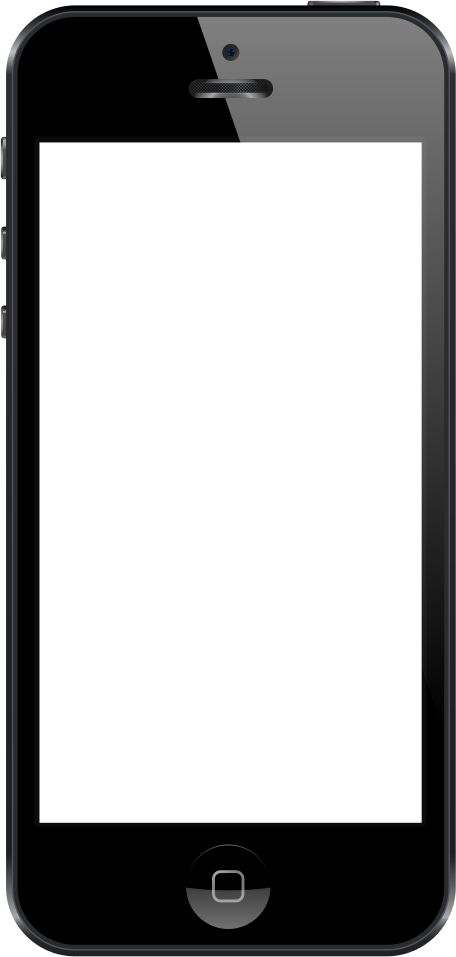
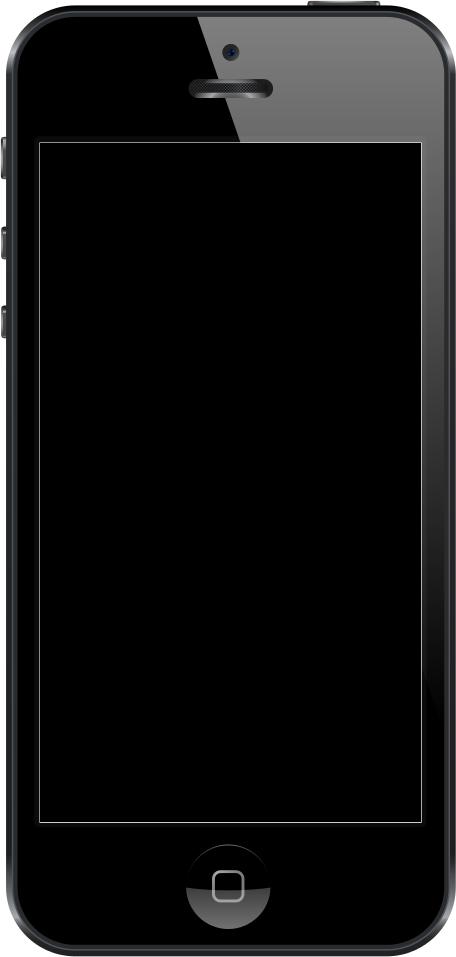
Improve device scaling and device images for iPhone 3 and 4
Can now scale given a diagonal screen size of a target device, making
it easier to add new devices.

diff --git a/Assets/Plugins/GDX Mobile View/GDXMobileView.cs b/Assets/Plugins/GDX Mobile View/GDXMobileView.cs
@@ -5,9 +5,12 @@ using System.Collections;
 using System.Collections.Generic;
 
 public class GDXMobileView: EditorWindow {
-	public static Dictionary<string, Vector2> deviceSize = new Dictionary<string, Vector2>();
+	public static string DEVICE_IMAGES_PATH = "Assets/Plugins/GDX Mobile View/Devices/";
+	public static Vector2 UNITY_GAMEVIEW_BORDER = new Vector2(4, 18);
+	
+	public static MobileDevice[] devices;
 	public static string[] deviceNames;
-	public static Vector2[] deviceSizeArray;
+
 	public static string[] orientations = {"Horizontal", "Vertical"};
 	
 	private Vector2 deviceCenter = new Vector2(200,150);
@@ -15,36 +18,31 @@ public class GDXMobileView: EditorWindow {
 	private int selectedDeviceIndex = 0;
 	private int selectedOrientationIndex = 0;
 	private bool isActualSize = true;
+	private bool isCompensatingForBorders = true;
 	private static float dpi = 110.0f;
 	
 	private static float screenSize;
 	private static float oldScreenSize;
 	
-	public static Texture2D deviceImage;
-
     float scaledDeviceWidth;
 	float scaledDeviceHeight;
 	bool isSizeSet = false;
    
-	[MenuItem ("Window/Emulate Device Size...")]
+	[MenuItem ("Window/GDX Mobile View")]
 	static void Init () {
        GDXMobileView window = (GDXMobileView)(EditorWindow.GetWindow(typeof(GDXMobileView)));
+		List<MobileDevice> deviceList = new List<MobileDevice>();
+		deviceList.Add(new MobileDevice("iPhone 3", new Vector2(320,480), 3.5f, 2.44f));
+		deviceList.Add(new MobileDevice("iPhone 4", new Vector2(640,960), 3.5f, 2.31f));
+		deviceList.Add(new MobileDevice("iPhone 5", new Vector2(640,1136),4, 2.31f));
+
+		devices = new MobileDevice[deviceList.Count];
+		deviceList.CopyTo(devices, 0);
 		
-		deviceSize.Add("iPhone 3(GS)", new Vector2(320,480));
-		deviceSize.Add("iPhone 4(S)", new Vector2(640,960));
-		deviceSize.Add("iPhone 5(CS)", new Vector2(640,1136));
-		deviceSize.Add("iPad Mini (1st Gen)", new Vector2(768,1024));
-		deviceSize.Add("iPad Mini (2nd Gen)", new Vector2(1536,2048));
-		deviceSize.Add("iPad Mini (1st/2nd Gen)", new Vector2(768,1024));
-		deviceSize.Add("iPad Mini (3rd/4th Gen)", new Vector2(1536,2048));
-		
-		deviceSizeArray = new Vector2[deviceSize.Values.Count];
-		deviceSize.Values.CopyTo(deviceSizeArray, 0);
-		
-		deviceNames = new string[deviceSize.Keys.Count];
-		deviceSize.Keys.CopyTo(deviceNames, 0);
-		
-		deviceImage = (Texture2D) Resources.LoadAssetAtPath("Assets/Plugins/GDX Mobile View/Devices/iPhone 5.png", typeof(Texture2D));
+		deviceNames = new string[devices.Length];
+		for(int i=0; i<devices.Length; i++) {
+			deviceNames[i] = devices[i].name;
+		}
 	}
  
     public static EditorWindow GetMainGameView() {
@@ -55,10 +53,6 @@ public class GDXMobileView: EditorWindow {
     }
  
     void OnGUI () {
-	     if(deviceNames == null) {
-			return;
-		}
-	
 	  EditorGUILayout.HelpBox("DPI measured as "+dpi+" dots per inch ", MessageType.Info);
 	  screenSize = EditorGUILayout.FloatField("Screen Diagonal Size: ", screenSize);
 	   if(screenSize != oldScreenSize) {
@@ -69,13 +63,14 @@ public class GDXMobileView: EditorWindow {
       selectedDeviceIndex = EditorGUILayout.Popup("Device: ", selectedDeviceIndex, deviceNames);
 	  selectedOrientationIndex = EditorGUILayout.Popup("Orientation: ", selectedOrientationIndex, orientations);
 	  isActualSize = EditorGUILayout.Toggle("Actual Size: ", isActualSize);
+	  isCompensatingForBorders = EditorGUILayout.Toggle("Compensate for GameView Border: ", isCompensatingForBorders);
 		
 	  if(isSizeSet) {
 		if(orientations[selectedOrientationIndex] == "Horizontal") {
 			GUIUtility.RotateAroundPivot(-90, new Vector2(deviceCenter.x+scaledDeviceWidth/2,deviceCenter.y+scaledDeviceHeight/2));
 		}
 	  	
-		GUI.DrawTexture(new Rect(deviceCenter.x,deviceCenter.y, scaledDeviceWidth, scaledDeviceHeight), deviceImage, ScaleMode.ScaleToFit);
+		GUI.DrawTexture(new Rect(deviceCenter.x,deviceCenter.y, scaledDeviceWidth, scaledDeviceHeight), devices[selectedDeviceIndex].getDeviceImage(), ScaleMode.ScaleToFit);
 			
 		if(orientations[selectedOrientationIndex] == "Horizontal") {
 			GUIUtility.RotateAroundPivot(90, new Vector2(deviceCenter.x+scaledDeviceWidth/2,deviceCenter.y+scaledDeviceHeight/2));
@@ -88,14 +83,14 @@ public class GDXMobileView: EditorWindow {
         EditorWindow gameView = GetMainGameView();
         Rect pos = gameView.position;
 		
-		float realLifeScaleX = getRealLifeScaleX(1.97f, deviceSizeArray[selectedDeviceIndex].x, deviceSizeArray[selectedDeviceIndex].y);
+		float realLifeScaleX = getToScaleXFromDiag(devices[selectedDeviceIndex].diagonal, devices[selectedDeviceIndex].resolution.x, devices[selectedDeviceIndex].resolution.y);
 	
-		float aspectRatio = deviceSizeArray[selectedDeviceIndex].y / deviceSizeArray[selectedDeviceIndex].x;
-		float scaledWidth = deviceSizeArray[selectedDeviceIndex].x * realLifeScaleX;
+		float aspectRatio = devices[selectedDeviceIndex].resolution.y / devices[selectedDeviceIndex].resolution.x;
+		float scaledWidth = devices[selectedDeviceIndex].resolution.x * realLifeScaleX;
 		float scaledHeight = scaledWidth * aspectRatio;
 			
-		float deviceAspectRatio = (float) deviceImage.height / (float) deviceImage.width ;
-		float realLifeDeviceX = getRealLifeScaleX(2.31f, deviceImage.width, deviceImage.height);
+		float deviceAspectRatio = (float) devices[selectedDeviceIndex].getDeviceImage().height / (float) devices[selectedDeviceIndex].getDeviceImage().width ;
+		float realLifeDeviceX = getToScaleXFromWidth(devices[selectedDeviceIndex].physicalWidth, devices[selectedDeviceIndex].getDeviceImage().width, devices[selectedDeviceIndex].getDeviceImage().height);
 		
 
 		Debug.Log(""+selectedOrientationIndex);
@@ -104,24 +99,65 @@ public class GDXMobileView: EditorWindow {
         	pos.width = scaledHeight;
        		pos.height = scaledWidth;
 			
-			scaledDeviceWidth = deviceImage.width * realLifeDeviceX;
+			if(isCompensatingForBorders) {
+				pos.width += UNITY_GAMEVIEW_BORDER.x;
+				pos.height += UNITY_GAMEVIEW_BORDER.y;
+			}
+			
+			scaledDeviceWidth = devices[selectedDeviceIndex].getDeviceImage().width * realLifeDeviceX;
 			scaledDeviceHeight = scaledDeviceWidth * deviceAspectRatio;
 		} else {
 			pos.width = scaledWidth;
        		pos.height = scaledHeight;
 				
-			scaledDeviceWidth = deviceImage.width * realLifeDeviceX;
+			if(isCompensatingForBorders) {
+				pos.width += UNITY_GAMEVIEW_BORDER.y;
+				pos.height += UNITY_GAMEVIEW_BORDER.x;
+			}
+				
+			scaledDeviceWidth = devices[selectedDeviceIndex].getDeviceImage().width * realLifeDeviceX;
 			scaledDeviceHeight = scaledDeviceWidth * deviceAspectRatio;
 		}
         GetMainGameView().position = pos;
       }
     }
 	
-	float getRealLifeScaleX(float targetPhysicalWidth, float width, float height) {
+	float getToScaleXFromDiag(float targetDiagonal, float width, float height) {
+		float currentPhysicalWidth = width/dpi;
+		float currentPhysicalHeight = height/dpi;
+		float currentPhysicalDiagonal = Mathf.Sqrt(Mathf.Pow(currentPhysicalWidth,2) + Mathf.Pow(currentPhysicalHeight, 2));
+		return targetDiagonal / currentPhysicalDiagonal;
+	}
+	
+	float getToScaleXFromWidth(float targetPhysicalWidth, float width, float height) {
 		float currentPhysicalWidth = width/dpi;
 		float aspectRatio = height/width;
 		float realLifeScaleX = targetPhysicalWidth / currentPhysicalWidth;
 		return realLifeScaleX;
+	}
+	
+	public class MobileDevice {
+		public string name;
+		public Vector2 resolution;
+		public float diagonal;
+		public float physicalWidth;
+		private Texture2D deviceImage;
+		
+		public MobileDevice(string name, Vector2 resolution, float diagonal, float physicalWidth) {
+			this.name = name;
+			this.resolution = resolution;
+			this.diagonal = diagonal;
+			this.physicalWidth = physicalWidth;
+			this.deviceImage = (Texture2D) Resources.LoadAssetAtPath(DEVICE_IMAGES_PATH+name+".png", typeof(Texture2D));
+		}
+		
+		public Texture2D getDeviceImage() {
+			return deviceImage;
+		}
+		
+		public override string ToString () {
+			return name;
+		}
 	}
  
 }
